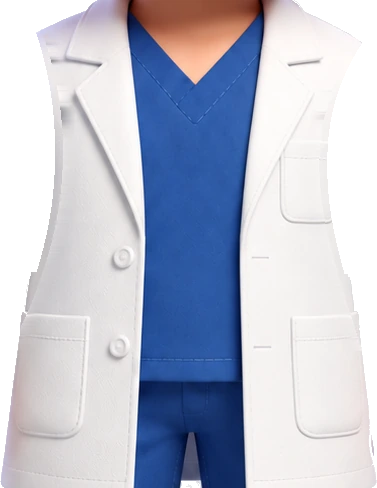
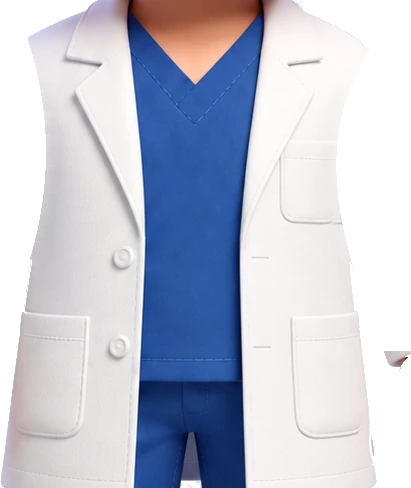
Dr. Smiley full body: no seam between the arms and the coat
The body layer used to be carved out around each arm with a 5 px band,
so at rest a hairline of the page showed through him along both
sleeves over a dark background (measured over magenta: two slivers of
about 1000 px each). export.py now cuts the body against the arms with
no gap: it overlaps each arm's inner edge by 4 px (only on the coat
side of the seam, so no rim of the arm's outer edge rides on the coat)
and relights that edge from the coat beside it; the legs end exactly at
the hands. See-through inside the figure above the floor shadow: 228 px
(hairlines at the hem). 121 checks pass. Nothing in the app changed, so
the User Guide needs no update.

Claude-Session: https://claude.ai/code/session_01DgrVVYvWuVXj7maJwsTi7k

diff --git a/drsmiley/body.js b/drsmiley/body.js
@@ -26,7 +26,7 @@ const DR_BODY = {
   hip: { l: [458, 1040], r: [627, 1040] },
   // Each layer's place in the picture: [x, y, width, height].
   box: {
-    body: [353, 578, 377, 488],
+    body: [353, 578, 411, 488],
     'arm-upper-l': [284, 602, 132, 247], 'arm-fore-l': [233, 736, 164, 327],
     'arm-upper-r': [685, 611, 113, 235], 'arm-fore-r': [690, 739, 151, 326],
     'leg-l': [288, 990, 247, 426], 'leg-r': [554, 990, 240, 426],

diff --git a/docs/art/dr-smiley-body/layers/export.py b/docs/art/dr-smiley-body/layers/export.py
@@ -54,15 +54,23 @@ upL=armL.copy(); upL[ELBOW:,:]=False; upL|=disc(shL,62)&fig; upL|=disc(elL,wL//2
 foL=armL.copy(); foL[:ELBOW,:]=False; foL|=disc(elL,wL//2)&armL
 upR=armR.copy(); upR[ELBOW:,:]=False; upR|=disc(shR,62)&fig; upR|=disc(elR,wR//2)&armR
 foR=armR.copy(); foR[:ELBOW,:]=False; foR|=disc(elR,wR//2)&armR
-band=np.array(Image.fromarray(((armL|armR)*255).astype(np.uint8)).filter(ImageFilter.MaxFilter(11)))>0
+# The body and the legs are cut against the arms with no gap (2026-10-24): the
+# body overlaps each arm's inner edge by 4 px (the arms less that strip), the
+# legs end exactly at the hands. A 5 px band carved out around the arms used to
+# leave a seam that showed the page through him over a dark background.
+arms=armL|armR
+inner=np.zeros((H,W),bool)            # the 4 px of each arm just inside its seam with the coat
+for y in range(TOP,CUFF+1):
+    xl=int(fL(y)); xr=int(fR(y)); inner[y,max(0,xl-4):xl+1]=True; inner[y,xr:xr+5]=True
+core=arms&~inner
 # legs: below the hem, split at the gap; each leg's top repeated upward behind the coat
-legs=fig&~band&(yy>=HEM)
+legs=fig&~arms&(yy>=HEM)
 legL=legs&(xx<SPLIT); legR=legs&(xx>=SPLIT)
-body=fig&~band&~legs; body[:CHIN,:]=False
+body=fig&~core&~legs; body[:CHIN,:]=False
 body=despeck(body); upL,foL,upR,foR,legL,legR=map(despeck,(upL,foL,upR,foR,legL,legR))
 src=rgb.copy()
-for y in range(TOP,CUFF+1):   # relight the coat edge under each sleeve
-    xl=int(fL(y))+13; xr=int(fR(y))-13
+for y in range(TOP,CUFF+1):   # relight the coat edge under each sleeve (from the body's edge, 4 px inside the arm, inward)
+    xl=int(fL(y))-4; xr=int(fR(y))+4
     for k in range(14):
         w=1-k/14; src[y,xl+k]=w*rgb[y,xl+22]+(1-w)*rgb[y,xl+k]; src[y,xr-k]=w*rgb[y,xr-22]+(1-w)*rgb[y,xr-k]
 legsrc=rgb.copy(); lega=alpha.copy()
